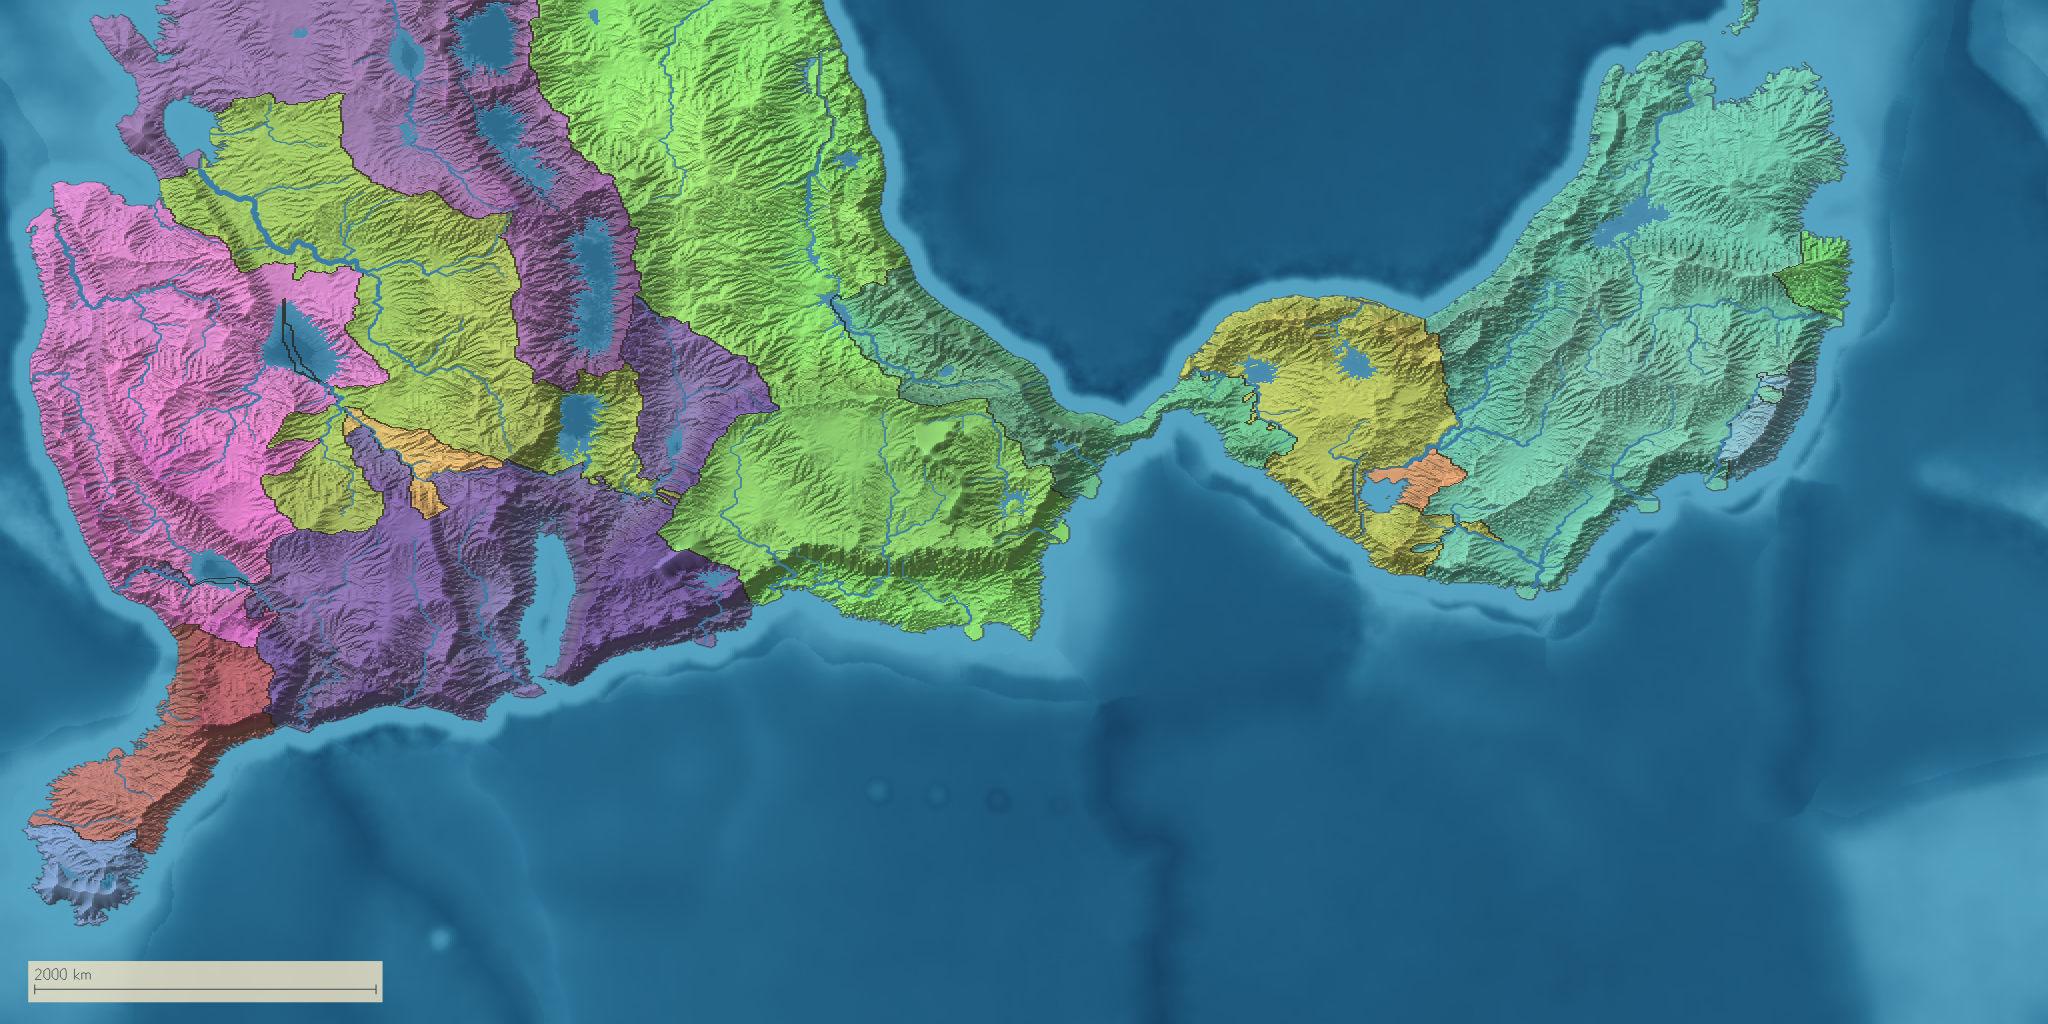
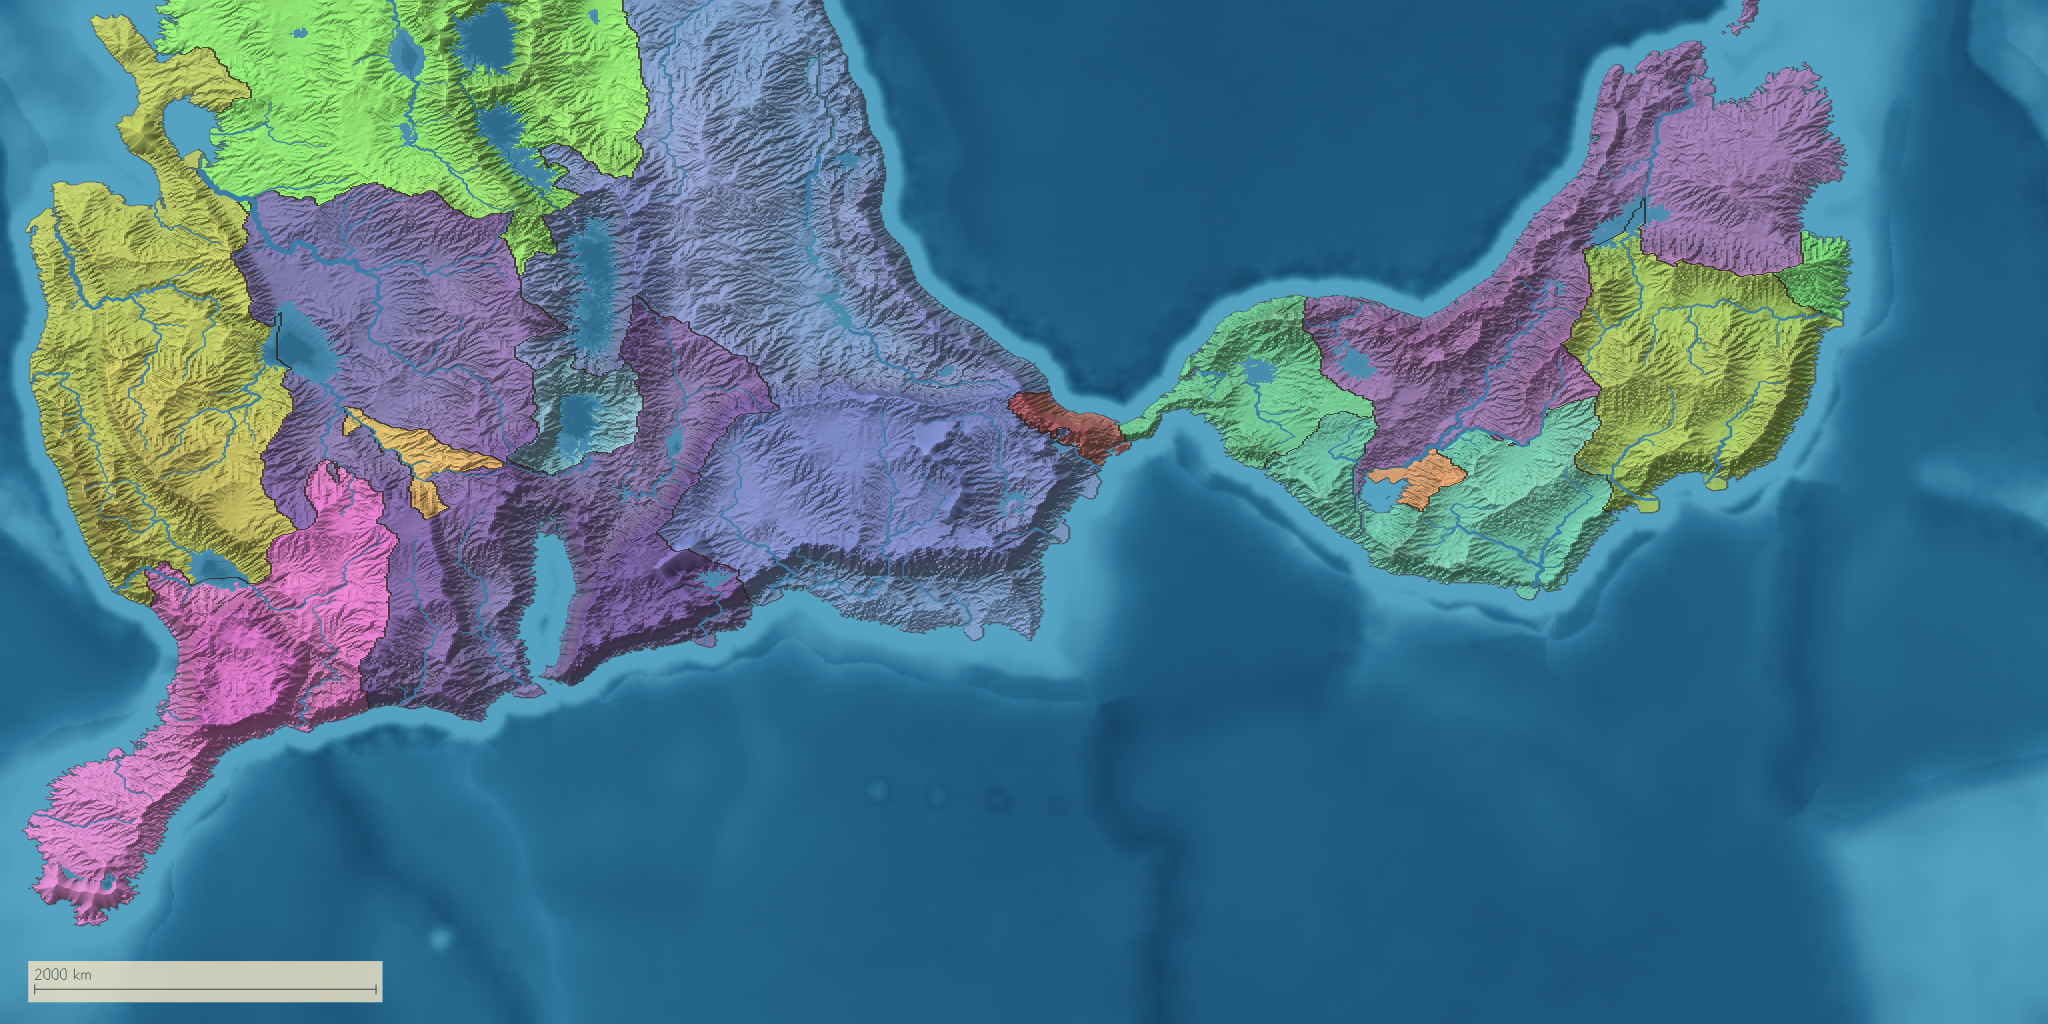
The review round in the report: what each point was, the guard shown failing, the counts before and after, and the Political renders re-taken

Changed region(s): [[0.0, 0.0, 0.5625, 0.9062], [0.5625, 0.0312, 0.9062, 0.5625], [0.8438, 0.0, 0.875, 0.0312]]

diff --git a/review/report.md b/review/report.md
@@ -2,10 +2,12 @@
 
 ## Where the work is
 
-- **Branch:** `chunk/6-water-realms`, created from origin/main at `fb22d30` and pushed after every
-  commit. It is not merged and no pull request is open.
-- **Head:** `acb9df9`.
-- **Review branch:** `review/6-water-realms` is this head plus `review/` (this report and the renders).
+- **Branch:** `chunk/6-water-realms`, created from origin/main at `fb22d30`. It is not merged and no
+  pull request is open.
+- **Head:** `66d745d`, after the review round (see "Review round" at the end). The first build,
+  which the sections below describe, was `acb9df9`.
+- **Review branch:** `review/6-water-realms` is the head with `review/` on top: this report and the
+  renders.
 
 ## Baseline: origin/main as it stood
 
@@ -282,7 +284,9 @@ The audit's figures for this world, 13 runs up to about 217 km, were taken on an
 ## The renders
 
 Files in `review/renders/`: seeds 42 and 718106 at 1024, in the Political and Fantasy views,
-`-before` from `fb22d30` and `-after` from the head.
+`-before` from `fb22d30` and `-after` from the head. The descriptions below are of the first build.
+The Political `-after` files have since been re-taken on `66d745d`, and "Review round" says what
+moved. The Fantasy `-after` files are unchanged to the pixel.
 
 **Seed 718106, Political.** Before:
 
@@ -310,7 +314,7 @@ against 29% before.
 **Fantasy, both seeds.** They look the same to the eye at this size. 0.92% (seed 42) and 1.08%
 (seed 718106) of pixels differ: river ink and lake edges, which is where findings 1 and 2 act.
 
-## Test counts on the final head
+## Test counts on the first build (`acb9df9`)
 
 The counts come from the JUnit XML under each module's `build/test-results`. The head's four suites
 were run in one build, `--no-daemon --console=plain -PtestWorkers=2 --continue`.
@@ -344,3 +348,141 @@ Against the baseline's 254, the nine extra tests are the new guards: `WaterRecei
   consumers. It is recorded in `docs/TODO.md`, because that file was not to be edited.
 - The ice sheet's ruled edge that the remaining straight realm run follows belongs to the ice's
   chunk.
+
+## Review round
+
+A second reading of the branch at `acb9df9` raised four points. Each was checked against the code
+before anything changed, then fixed and guarded by a test shown failing with the fix switched off.
+
+Commits:
+
+- `44925cf`: point 1 and point 4
+- `f244bbc`: point 2
+- `6d18d53`: point 3
+- `66d745d`: docs, and a count corrected in a test comment
+
+**Head:** `66d745d`.
+
+### 1. Basins with several exits were not solved upstream first
+
+**Verified.** The basins were ordered by the drainage rank of their last exit. That is not a
+topological order once a basin has two exits: the early one can feed a lower basin that the late
+one comes after. The subtraction also walked a routing that a closed basin below might already have
+re-pointed.
+
+**Change.** `RiverStage.basinsUpstreamFirst` builds a graph: an edge from each basin to the basin
+that each of its exits' water reaches next, on the routing the fill left. It then walks the graph in
+Kahn's order. The subtraction walks that same routing, kept as it was before any basin closed.
+
+**Guard.** `WaterReceivedTest`, "a basin with two exits is solved before the basin one of them
+feeds". Basin A has an early exit into B and a late exit at the end of a 47-cell chain, with the
+ranks asserted as the precondition.
+
+- **Fix off** (the exit-rank ordering and the live routing restored): B is given **700 mm-cells
+  against 450 reaching it**.
+- **Now:** 450 against 450, and A is solved before B.
+
+### 2. The km² limit failed where a closed lake's catchment was larger than it
+
+**Verified.** Each water cell kept its own slopes up to the limit, and the sink then kept every
+water cell together with those slopes.
+
+**Change.** A closed lake or playa is one node at its sink. Its water is never cut. Land draining to
+any cell of the water is a tributary of the sink and is cut at the limit like any other. Only a body
+of water larger than the limit on its own can exceed it.
+
+**Guard.** `CatchmentUnitsTest`, "a closed lake's unit is cut at the limit like any other": a
+two-cell lake with nine land cells draining to its second cell, under a ten-cell limit.
+
+- **Fix off** (`BasinPartition` as of `acb9df9`): **one unit of 11 cells**.
+- **Now:** units of 2 and 9 cells, with the lake whole.
+
+### 3. The cap left stranded pieces
+
+**Verified in the code:** `dissolveEnclaves` left a piece that no neighbour could take under the cap
+where it was.
+
+**The reviewer's example has a different cause.** On 718106 at 1024 I counted pieces with
+`RealmPieces`: a *stranded* piece is a piece of a realm, other than its largest, that borders
+another realm by land. `acb9df9` had none, there or on seeds 7/42/1234/99 at 512. The four small
+realms inside the purple realm on the eastern island are whole realms, seeded on that island and
+grown round by their neighbour. They are still there after this round.
+
+**Change.**
+
+- A piece that no neighbour can take within the cap becomes a realm of its own, with its capital on
+  its best ground, if it is at least the smallest realm (0.4% of the land, and never under 24
+  cells). A smaller piece goes to the neighbour holding most of its edge; that can put the
+  neighbour over the cap by less than the smallest realm, and the code says so.
+- A schism's breakaway takes any run of the rest that it would cut off from the rest's main body.
+- A cap-split realm that cannot be split is set aside, as before this round.
+
+**Guards**, in `RealmSpreadTest`:
+
+- **"a piece no neighbour can take within the cap becomes a realm of its own".** A 36-cell piece
+  lies inside a realm holding 764 cells against a cap of 768.
+  - **Fix off** (the piece left where it is, as at `acb9df9`): **1 stranded piece**.
+  - **Now:** the piece is realm 4, with its capital on it. No piece is stranded and no realm is over
+    the cap.
+  - On origin/main the piece would have gone to the large realm, taking it to 800 cells against the
+    cap of 768. I established that by reading origin/main's code, not by running it.
+- **"no piece is stranded and no more realms are landlocked inside one neighbour"**, over seeds
+  7/42/1234/99 at 512, against origin/main's figures. It passes on origin/main and on `acb9df9`
+  too, so it guards against regression and does not demonstrate the defect.
+
+**Counts** (seeds 7/42/1234/99 at 512, then 718106 at 1024):
+
+| | origin/main | `acb9df9` | Now |
+|---|---|---|---|
+| Stranded pieces | 0/0/0/0/1 | 0/0/0/0/0 | 0/0/0/0/0 |
+| Realms whose largest piece meets exactly one other realm by land | 5/4/5/4/5 | 4/4/5/5/8 | 2/5/5/6/7 |
+| … of those, landlocked | 4 | 2 | 2 |
+
+**Largest realm** (seeds 7/42/1234/99 at 512 and 969495 at 2048): 21.4/26.6/19.9/24.8/21.0% of
+the land. Seeds 42 and 99 rose from 23.8% and 20.6%, because the breakaway rule re-lays their realms.
+
+### 4. The water guards now assert what they name
+
+- **The hand-drawn case** asserts:
+  - A's exits are exactly its two exit cells;
+  - a path leaving A and coming back is counted once: A is given 2,650 against 2,650 entering it;
+  - A's water reaches B on the routing before any basin closed.
+- **The terrain case** asserts that the upper basin's water reaches the lower one on that routing,
+  and that every basin has an exit. It prints the exit counts, which turn out to be three for each
+  of its basins.
+
+### What moved in this round
+
+- **Rivers and lakes:** did not move on the five worlds measured.
+- **Coastal capitals** (seeds 7/42/1234/99 at 512 and 969495 at 2048): 14/18, 8/14, 8/16, 6/14 and
+  3/14, 39 of 76. origin/main had 36 of 77.
+- **Realm borders on 718106 at 2048** (straight runs along a row or column):
+
+  | | origin/main | First build | Now |
+  |---|---|---|---|
+  | 50 km or longer | 10 | 8 | **12** |
+  | 100 km or longer | 1 | 0 | 0 |
+  | Longest | 123 km | 67 km | 76 km |
+
+  The longest now is north–south at cell (459,224). No guard detector failed on either layer. The
+  peoples' borders did not move.
+- **Renders.** The `-after` renders in `review/renders/` are re-taken on this head.
+  - **Seed 42:** one large realm, 26.6% of the land, now runs across the middle of the western
+    continent, and a small realm holds the isthmus.
+  - **Seed 718106:** the south coast east of the ice is split between two realms where there was
+    one. The four small realms inside the eastern island's large realm remain.
+  - **Fantasy views:** did not move, since rivers and lakes did not.
+
+### Test counts after this round
+
+| Task | Tests | Failures | Errors | Skipped | Run on |
+|---|---|---|---|---|---|
+| `:worldgen:jvmTest` | 267 | 0 | 0 | 0 | `66d745d`, alone, 51 min 55 s |
+| `:cartography:jvmTest` | 117 | 0 | 0 | 0 | `6d18d53`, with ui and desktop |
+| `:ui:jvmTest` | 129 | 0 | 0 | 0 | `6d18d53`, with cartography and desktop |
+| `:desktop:test` | 104 | 0 | 0 | 19 | `6d18d53`, with cartography and ui |
+
+`66d745d` differs from `6d18d53` only in docs and a comment in `RealmSpreadTest`. The four new tests
+account for 267 against the first build's 263.
+
+**The 2048 audit tier** (`:cartography:audit`) is being run on `66d745d`; its result is added here when it finishes.
